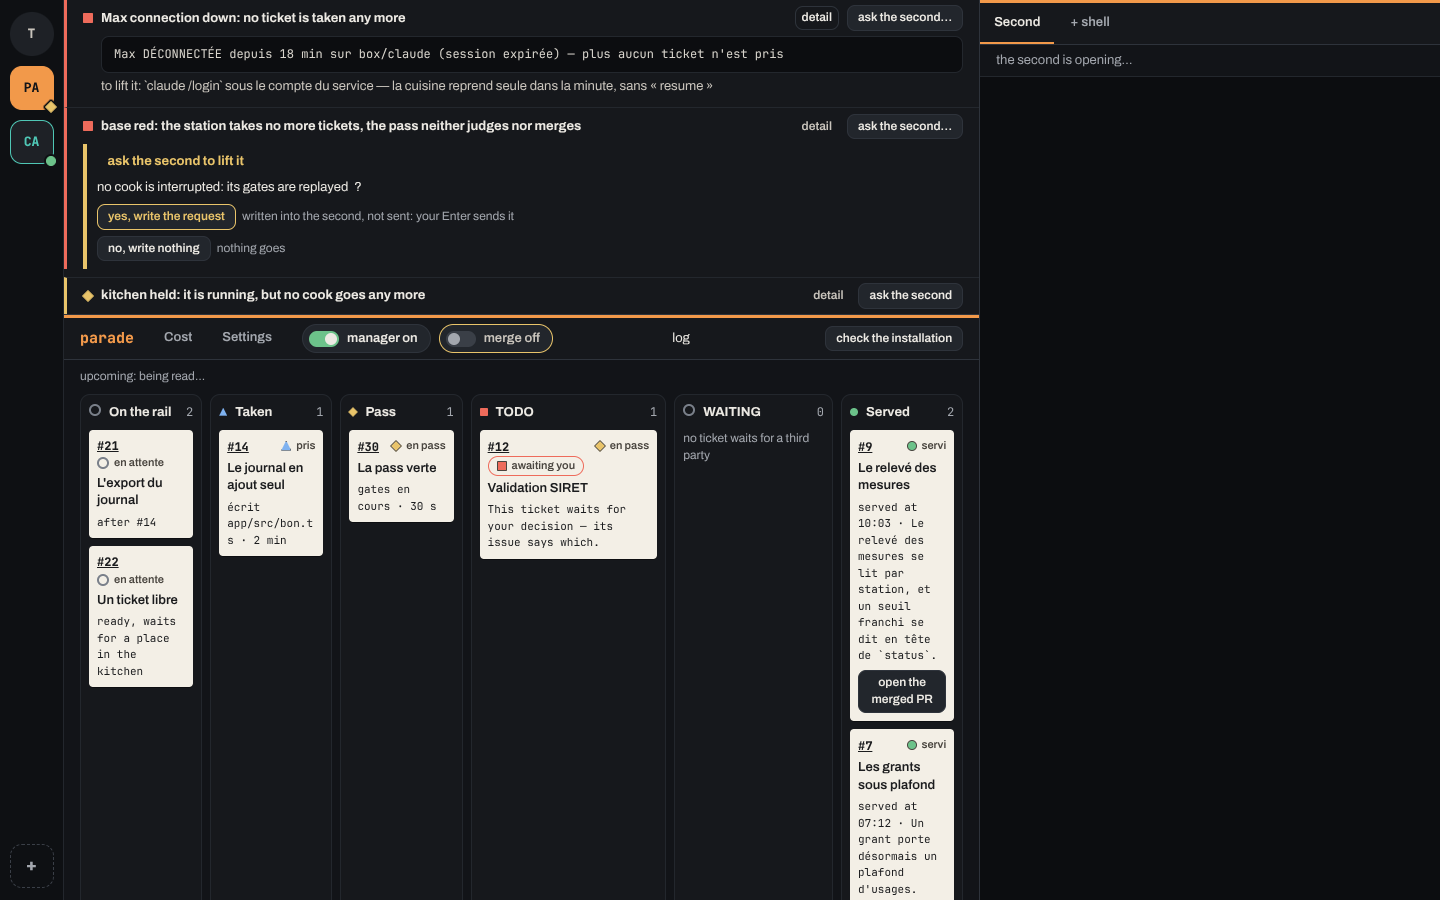
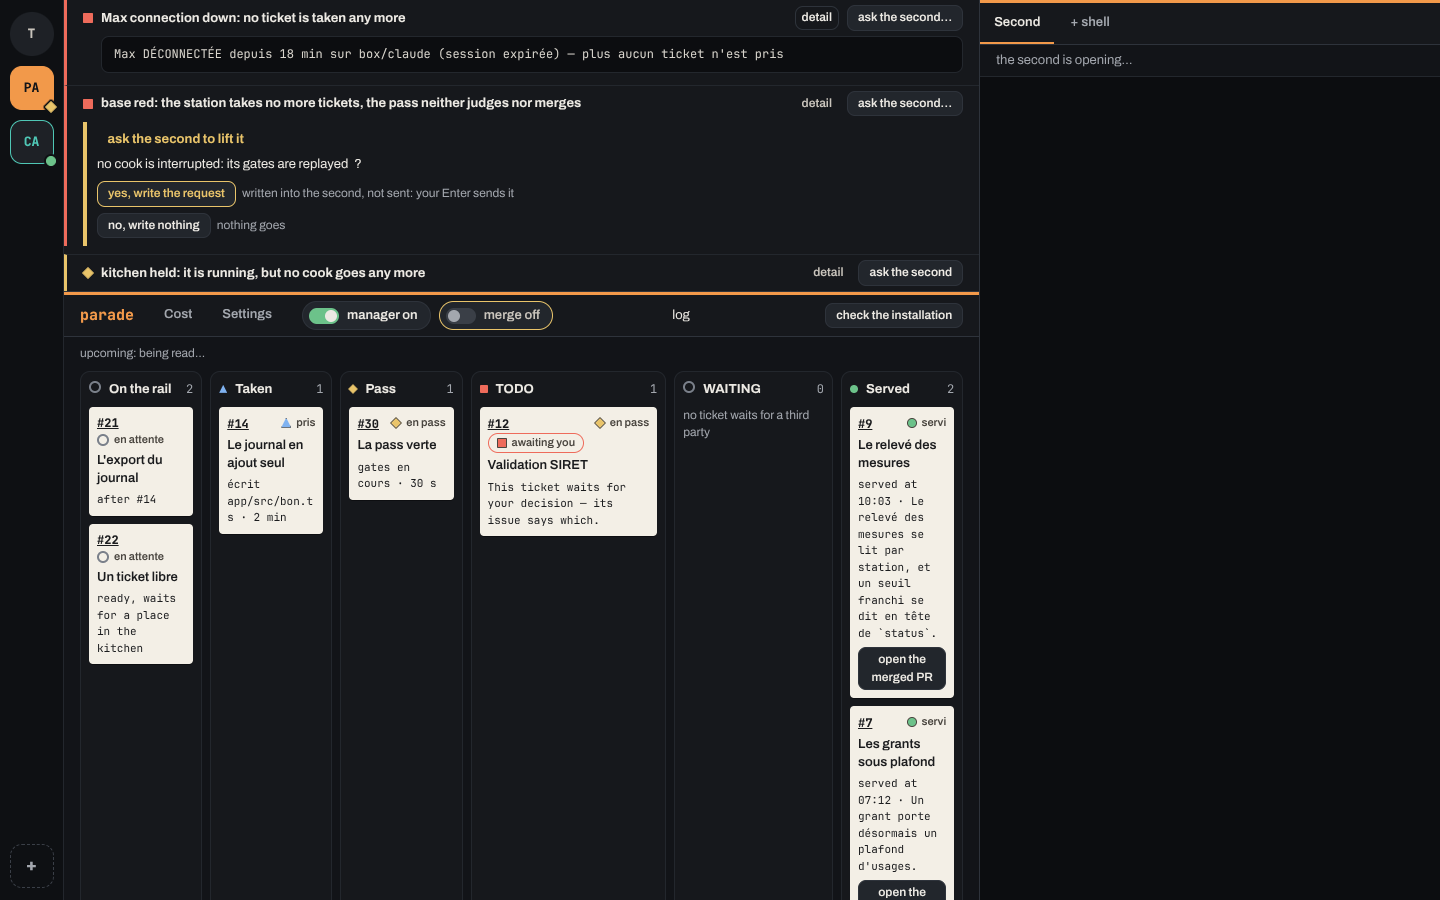
fix(#907): le « detail » d'une alerte ne montre plus le geste à recopier — le pourquoi et le brut de la box, rien d'autre
Relecture de la pass (règle 830, geste attendu qui n'est pas un bouton) : le détail déplié de « Max
connection down » écrivait « to lift it: `claude /login` sous le compte du service… », une commande à
recopier. poserAlerte ne pose plus le geste dans le détail : le seul geste montré est le contrôle de la
ligne. Les tests disent désormais que le geste n'est écrit nulle part, pas même déplié ; capture
refaite : docs/captures/907/bande-alertes-ouverte-apres.png.

Changed region(s): [[0.0312, 0.0933, 0.6875, 1.0], [0.5625, 0.0933, 0.6562, 0.1556]]

diff --git a/app/test/bande-une-ligne.test.ts b/app/test/bande-une-ligne.test.ts
@@ -118,7 +118,7 @@ describe("une alerte : une ligne, un contrôle", () => {
     assert.doesNotMatch(ecrit, /start again|interrupted|replayed|merged without you/, "un prix est posé dans la bande");
   });
 
-  test("« detail » déplie, dessous, ce que la ligne sait de plus — la box mot pour mot, le geste en toutes lettres ; une relecture ne le replie pas, un second clic si", async () => {
+  test("« detail » déplie, dessous, ce que la ligne sait de plus — la box mot pour mot, jamais le geste à recopier ; une relecture ne le replie pas, un second clic si", async () => {
     const vue = await ouvrir();
     const lue = bandeLue(statusAvec(CONNEXION, BASE_ROUGE));
     vue.dire("surAlertes", lue);
@@ -132,7 +132,8 @@ describe("une alerte : une ligne, un contrôle", () => {
     assert.equal(detailDe(base).ariaExpanded, "true");
     const detail = base.children.find(({ className }) => className === "detail") ?? assert.fail("rien de déplié");
     assert.deepEqual(detail.dessous("pre").map(({ textContent }) => textContent), [valeur(BASE_ROUGE)]);
-    assert.match(detail.textContent, /to lift it: clear what makes it red, then replay its gates/);
+    // Le geste n'y est pas : le seul geste montré est le bouton de la ligne (règle #830).
+    assert.doesNotMatch(detail.textContent, /to lift it|clear what makes it red|replay its gates/);
     // Le prix n'est pas dans le détail non plus : c'est la confirmation qui le dit.
     assert.doesNotMatch(detail.textContent, /replayed/);
     // L'autre ligne reste repliée.
@@ -145,6 +146,12 @@ describe("une alerte : une ligne, un contrôle", () => {
 
     detailDe(ligneDe(vue, "base red")).click();
     assert.equal(ligneDe(vue, "base red").children.length, 1);
+
+    // La connexion Max : son détail dit ce que la box en écrit, sans la commande qui la rétablit (règle #830).
+    detailDe(ligneDe(vue, "Max connection")).click();
+    const connexion = ligneDe(vue, "Max connection").children.find(({ className }) => className === "detail") ?? assert.fail("rien de déplié");
+    assert.deepEqual(connexion.dessous("pre").map(({ textContent }) => textContent), ["Max DÉCONNECTÉE depuis 18 min sur box/claude — plus aucun ticket n'est pris"]);
+    assert.doesNotMatch(connexion.textContent, /claude \/login|to lift it/);
   });
 });
 

diff --git a/app/src/vue/vue.js b/app/src/vue/vue.js
@@ -4330,11 +4330,11 @@ const endroitDeLAlerte = ({ sujet, dit }) => (sujet === "urgence" ? "alerte:urge
 
 // Une ligne de la bande (ticket 907) : une seule ligne — ce qui ne va pas — et un seul contrôle, le
 // geste qui le lève. Son prix n'est pas posé à côté : le clic ouvre la confirmation, qui le dit. Ce
-// que la ligne sait de plus — pourquoi, ce que la box en écrit mot pour mot, le geste en toutes
-// lettres, le verdict d'une vérification — est replié derrière « detail », dessous.
+// que la ligne sait de plus — pourquoi, ce que la box en écrit mot pour mot, le verdict d'une
+// vérification — est replié derrière « detail », dessous.
 /** @param {Projet} projet @param {Alerte} alerte */
 function poserAlerte(projet, alerte) {
-  const { sujet, verifie, ton, dit, pourquoi, releve, geste: leve, verification } = alerte;
+  const { sujet, verifie, ton, dit, pourquoi, releve, verification } = alerte;
   const ligne = document.createElement("div");
   ligne.className = "alerte";
   ligne.dataset.sujet = sujet;
@@ -4348,14 +4348,15 @@ function poserAlerte(projet, alerte) {
   if (marque !== undefined) marque.className = "urgent";
   tete.append(pastille(dit, ton), ...(marque === undefined ? [] : [marque]), bloc("strong", dit));
 
-  // Le détail : ce que la ligne sait de plus, à plat une fois déplié — le brut de la box y reste entier.
+  // Le détail : ce que la ligne sait de plus, à plat une fois déplié — le pourquoi, et le brut de la box,
+  // entier. Pas le geste : le seul geste montré est le contrôle de la ligne, un bouton — jamais une
+  // commande à recopier (règles de la langue visuelle, ticket 830).
   const cle = `${projet.nom}\u0000${endroit}`;
   const deplie = detailsDeplies.has(cle);
   /** @type {HTMLElement[]} */
   const detail = [
     ...(pourquoi === undefined || pourquoi.trim() === "" ? [] : [bloc("p", pourquoi)]),
     ...(releve === undefined || releve.trim() === "" ? [] : [exact("pre", releve)]),
-    ...(leve.trim() === "" ? [] : [bloc("p", `to lift it: ${leve}`)]),
     ...(verification === undefined ? [] : poserVerdict(projet, verification, (texte, geste) => bouton(texte, () => void geste()), verification.titre !== dit)),
   ];
   if (detail.length > 0) {

diff --git a/app/test/garde-fou-ecrans.test.ts b/app/test/garde-fou-ecrans.test.ts
@@ -307,7 +307,7 @@ describe("en attente de décision, aucun écran n'écrit à plat une commande ni
 });
 
 describe("en attente de décision, chaque geste attendu est un bouton, pas du texte", () => {
-  test("bande d'alertes : une ligne, un contrôle — la commande derrière « detail », le prix dans la confirmation", async () => {
+  test("bande d'alertes : une ligne, un contrôle — la commande écrite nulle part, pas même derrière « detail », le prix dans la confirmation", async () => {
     const { racine } = await bandeEnAttente();
     for (const alerte of EN_ATTENTE) {
       const ligne = () => racine.children.find((pose) => pose.dataset.sujet === alerte.sujet) ?? assert.fail(`pas de ligne « ${alerte.sujet} »`);
@@ -315,8 +315,11 @@ describe("en attente de décision, chaque geste attendu est un bouton, pas du te
       assert.ok(controle?.textContent.startsWith(alerte.bouton ?? "") === true && autres.length === 0, `« ${alerte.bouton} » n'est pas le seul contrôle de sa ligne`);
       assert.ok(!visible(ligne()).includes(alerte.geste), `${alerte.sujet} : le geste est écrit à plat`);
       assert.ok(!survols(ligne()).some((dit) => dit.includes(alerte.prix)), `${alerte.sujet} : le prix est posé à côté du bouton`);
-      (boutons(ligne()).find(({ className }) => className === "detail") ?? assert.fail(`${alerte.sujet} : pas de « detail »`)).click();
-      assert.ok(visible(ligne()).includes(alerte.geste), `${alerte.sujet} : le geste n'est pas derrière « detail »`);
+      // Déplié, le détail montre le brut de la box, jamais le geste à recopier.
+      const deplier = boutons(ligne()).find(({ className }) => className === "detail");
+      if (deplier === undefined) continue;
+      deplier.click();
+      assert.ok(!visible(ligne()).includes(alerte.geste), `${alerte.sujet} : le geste est écrit derrière « detail »`);
     }
   });
 

diff --git a/app/test/alertes.test.ts b/app/test/alertes.test.ts
@@ -369,10 +369,10 @@ describe("la bande, à l'écran", () => {
     const demande = () => ligne().dessous("button").find((pose) => pose.dataset.geste === "demande") ?? assert.fail("pas de demande");
     // Son geste coûte un redémarrage : le bouton ouvre d'abord ce qu'il coûte.
     assert.equal(demande().textContent, "ask the second…");
-    // La commande que la box nomme n'est pas écrite à plat : elle est derrière « detail ».
+    // La commande que la box nomme n'est écrite nulle part, pas même derrière « detail » : le bouton est le seul geste.
     assert.doesNotMatch(ligne().textContent, /brigade <projet>/);
     (ligne().dessous("button").find((pose) => pose.className === "detail") ?? assert.fail("pas de « detail »")).click();
-    assert.ok(ligne().textContent.includes(GESTE_DE_STATION_A_CHAUD), "le geste n'est pas derrière « detail »");
+    assert.ok(!ligne().textContent.includes(GESTE_DE_STATION_A_CHAUD), "le geste est écrit derrière « detail »");
     demande().click();
     await repos();
     // La confirmation dit le prix du geste, en une ligne ; rien n'est encore écrit.

diff --git a/docs/app.md b/docs/app.md
@@ -17,8 +17,9 @@ qui ne va pas en une phrase, et son seul bouton fait le geste (ou écrit la dema
 un geste qui coûte ouvre sous la ligne sa confirmation, qui dit son prix en une ligne — une demande au
 second aussi (`ask the second…` : « ask the second to lift it », ce que coûtera le lever, et `yes, write
 the request`, qui l'écrit sans l'envoyer) ; un geste sans prix part au clic. **Ce que la box en dit mot
-pour mot**, la raison et le geste en toutes lettres **sont derrière « detail »**, au bout de la ligne :
-un clic les déplie dessous, un second les replie, et une relecture de la bande ne les replie pas.
+pour mot** et la raison **sont derrière « detail »**, au bout de la ligne : un clic les déplie dessous,
+un second les replie, et une relecture de la bande ne les replie pas. Le geste, lui, n'y est jamais
+écrit — ni commande à recopier ni mode d'emploi : le seul geste montré est le bouton de la ligne.
 **Le grant `merge` est un interrupteur** (#907), à côté de celui du manager et du même rendu — `merge
 on` ou `merge off` —, lu dans les lignes de tête de `status` : un clic ouvre la confirmation d'accorder,
 ou de révoquer, qui dit ce que ça change. Éteint de lui-même (son échéance passée), il est cerné de
